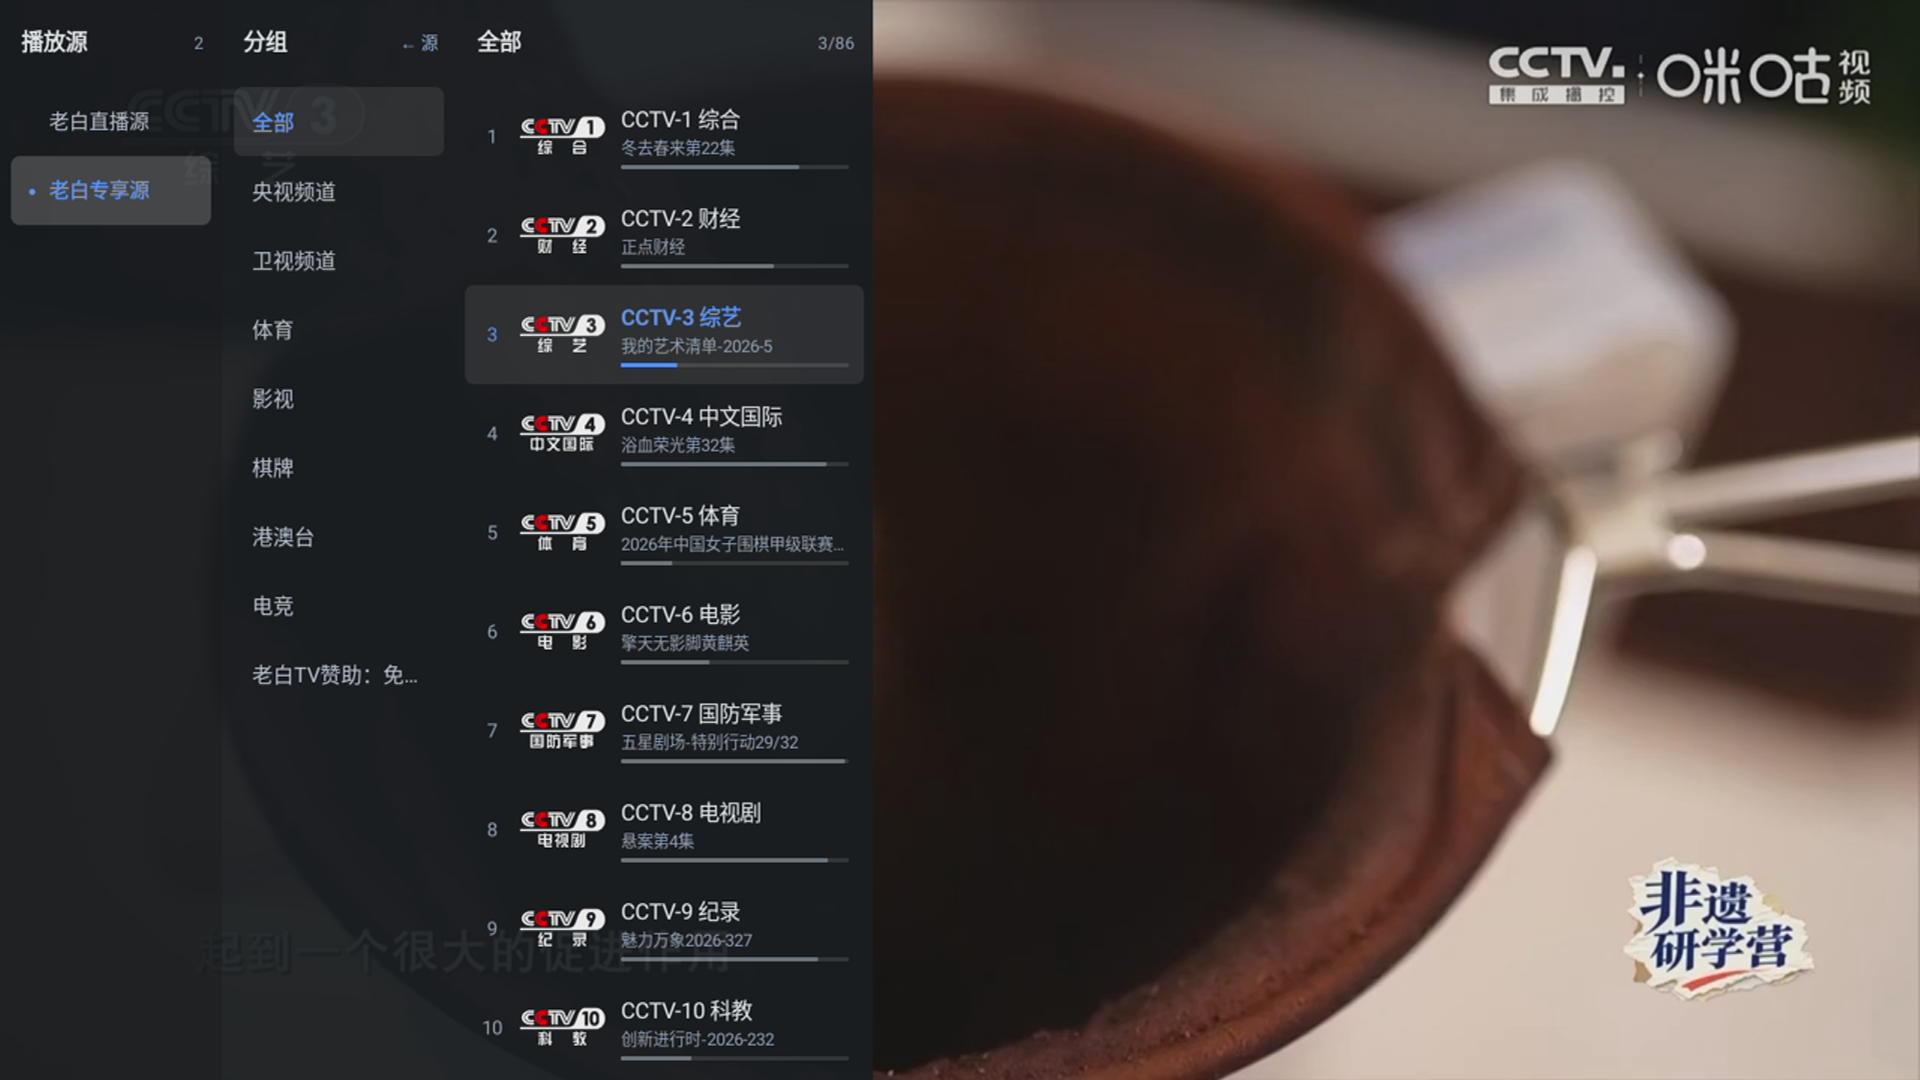
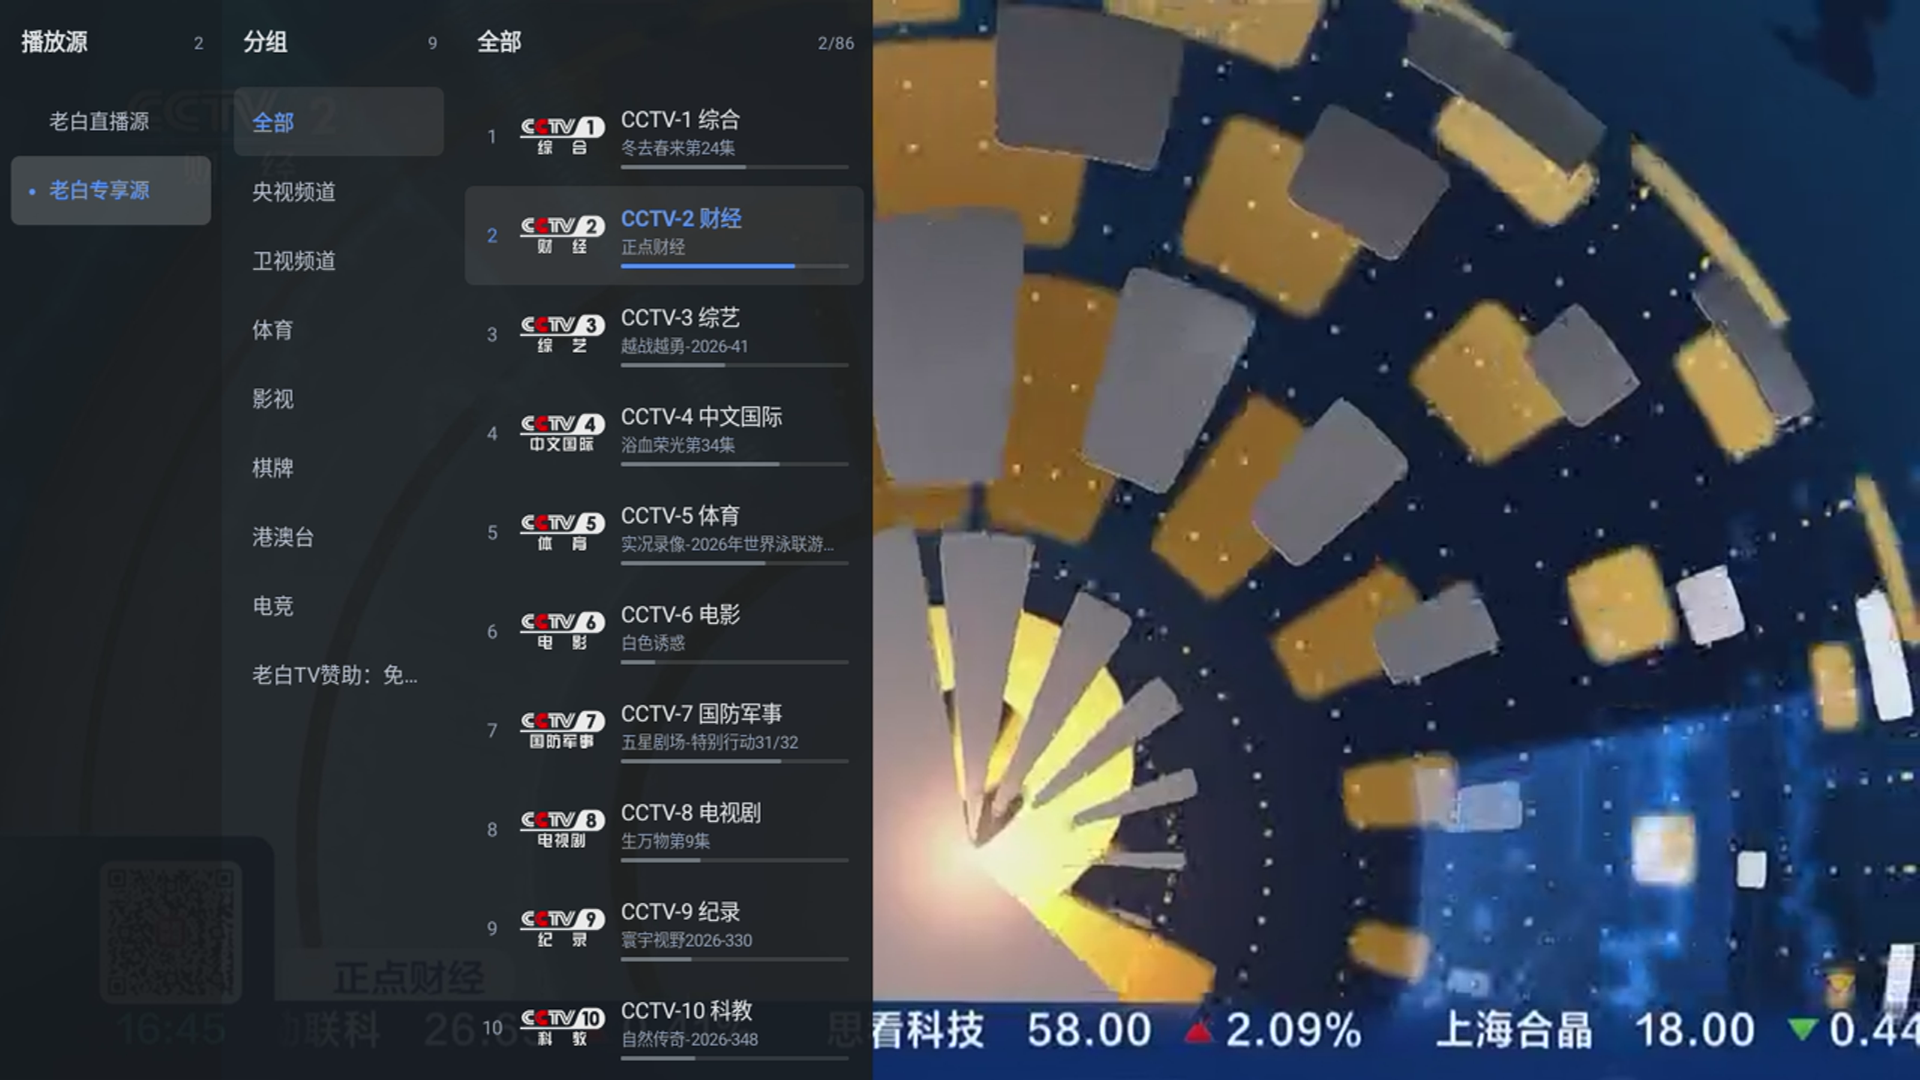
Polish Digit OSD, remove Groups arrow hint, switch CI release to manual dispatch

diff --git a/android/app/src/main/java/com/cjlhll/iptv/PlayerActivity.kt b/android/app/src/main/java/com/cjlhll/iptv/PlayerActivity.kt
@@ -13,11 +13,14 @@ import android.widget.FrameLayout
 import android.widget.Toast
 import androidx.activity.ComponentActivity
 import androidx.compose.foundation.background
+import androidx.compose.foundation.border
 import androidx.compose.foundation.layout.Box
 import androidx.compose.foundation.layout.Column
+import androidx.compose.foundation.layout.defaultMinSize
 import androidx.compose.foundation.layout.fillMaxSize
 import androidx.compose.foundation.layout.fillMaxWidth
 import androidx.compose.foundation.layout.padding
+import androidx.compose.foundation.shape.RoundedCornerShape
 import androidx.compose.runtime.Composable
 import androidx.compose.runtime.DisposableEffect
 import androidx.compose.runtime.LaunchedEffect
@@ -34,12 +37,16 @@ import androidx.compose.runtime.setValue
 import androidx.compose.runtime.snapshotFlow
 import androidx.compose.ui.Alignment
 import androidx.compose.ui.Modifier
+import androidx.compose.ui.draw.clip
+import androidx.compose.ui.graphics.Color as ComposeColor
 import androidx.compose.ui.platform.ComposeView
 import androidx.compose.ui.platform.LocalContext
 import androidx.compose.ui.platform.LocalLifecycleOwner
 import androidx.compose.ui.platform.testTag
+import androidx.compose.ui.text.TextStyle
 import androidx.compose.ui.text.font.FontWeight
 import androidx.compose.ui.unit.dp
+import androidx.compose.ui.unit.sp
 import androidx.lifecycle.Lifecycle
 import androidx.lifecycle.LifecycleEventObserver
 import androidx.lifecycle.lifecycleScope
@@ -280,26 +287,27 @@ class PlayerActivity : ComponentActivity() {
                     val digitState by uiController.digitOsd.collectAsState()
                     if (digitState.visible) {
                         val osdDigitColor = if (digitState.confirmed) BrandFocus.BlueColor else TvDesignTokens.TextPrimary
-                        Column(
+                        val badgeShape = RoundedCornerShape(10.dp)
+                        Box(
                             modifier = Modifier
                                 .align(Alignment.TopEnd)
-                                .padding(top = 24.dp, end = 40.dp)
+                                .padding(top = 28.dp, end = 36.dp)
                                 .testTag("digit_osd")
-                                .background(TvDesignTokens.SurfaceObsidian.copy(alpha = 0.92f))
-                                .padding(horizontal = 28.dp, vertical = 14.dp),
-                            horizontalAlignment = Alignment.End
+                                .clip(badgeShape)
+                                .background(ComposeColor(0xFF0A0D12).copy(alpha = 0.62f))
+                                .border(1.dp, ComposeColor.White.copy(alpha = 0.14f), badgeShape)
+                                .defaultMinSize(minWidth = 84.dp)
+                                .padding(horizontal = 20.dp, vertical = 10.dp),
+                            contentAlignment = Alignment.Center,
                         ) {
                             Text(
-                                text = tr("频道号跳转", "Channel Jump"),
-                                color = TvDesignTokens.TextSecondary,
-                                style = MaterialTheme.typography.labelLarge
-                            )
-                            Text(
-                                text = if (digitState.confirmed) digitState.digits else "${digitState.digits}_",
+                                text = digitState.digits,
                                 color = osdDigitColor,
-                                style = MaterialTheme.typography.headlineLarge.copy(
-                                    fontWeight = if (digitState.confirmed) FontWeight.Bold else FontWeight.SemiBold
-                                )
+                                fontSize = 36.sp,
+                                lineHeight = 40.sp,
+                                fontWeight = if (digitState.confirmed) FontWeight.Bold else FontWeight.SemiBold,
+                                letterSpacing = 2.sp,
+                                style = TextStyle(fontFeatureSettings = "tnum"),
                             )
                         }
                     }

diff --git a/android/app/src/main/java/com/cjlhll/iptv/NativeChannelDrawerView.kt b/android/app/src/main/java/com/cjlhll/iptv/NativeChannelDrawerView.kt
@@ -450,13 +450,8 @@ class NativeChannelDrawerView(context: Context) : LinearLayout(context) {
     }
 
     private fun updateGroupsRightHint() {
-        if (snapshot.sources.size >= 2) {
-            groupsCountView.text = t("← 源", "← Src")
-            groupsCountView.setTextColor(COLOR_ACCENT_SOFT)
-        } else {
-            groupsCountView.text = "${snapshot.groups.size}"
-            groupsCountView.setTextColor(COLOR_TEXT_MUTED)
-        }
+        groupsCountView.text = "${snapshot.groups.size}"
+        groupsCountView.setTextColor(COLOR_TEXT_MUTED)
     }
 
     fun updateSnapshot(newSnapshot: Snapshot) {
